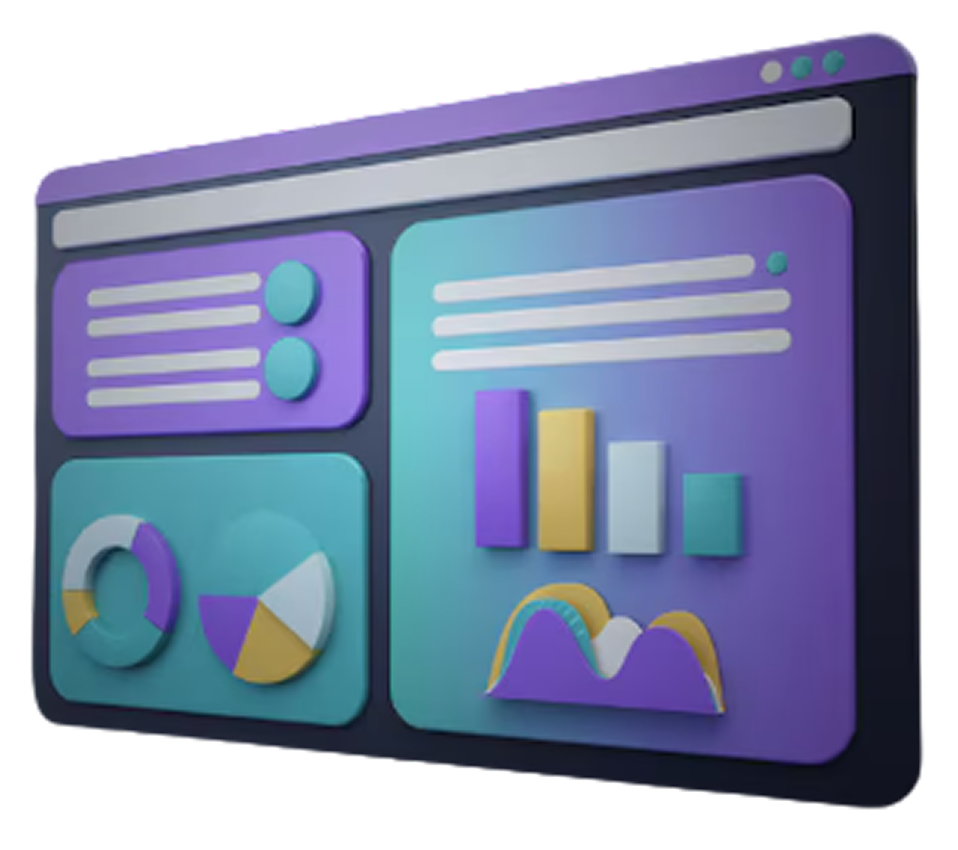
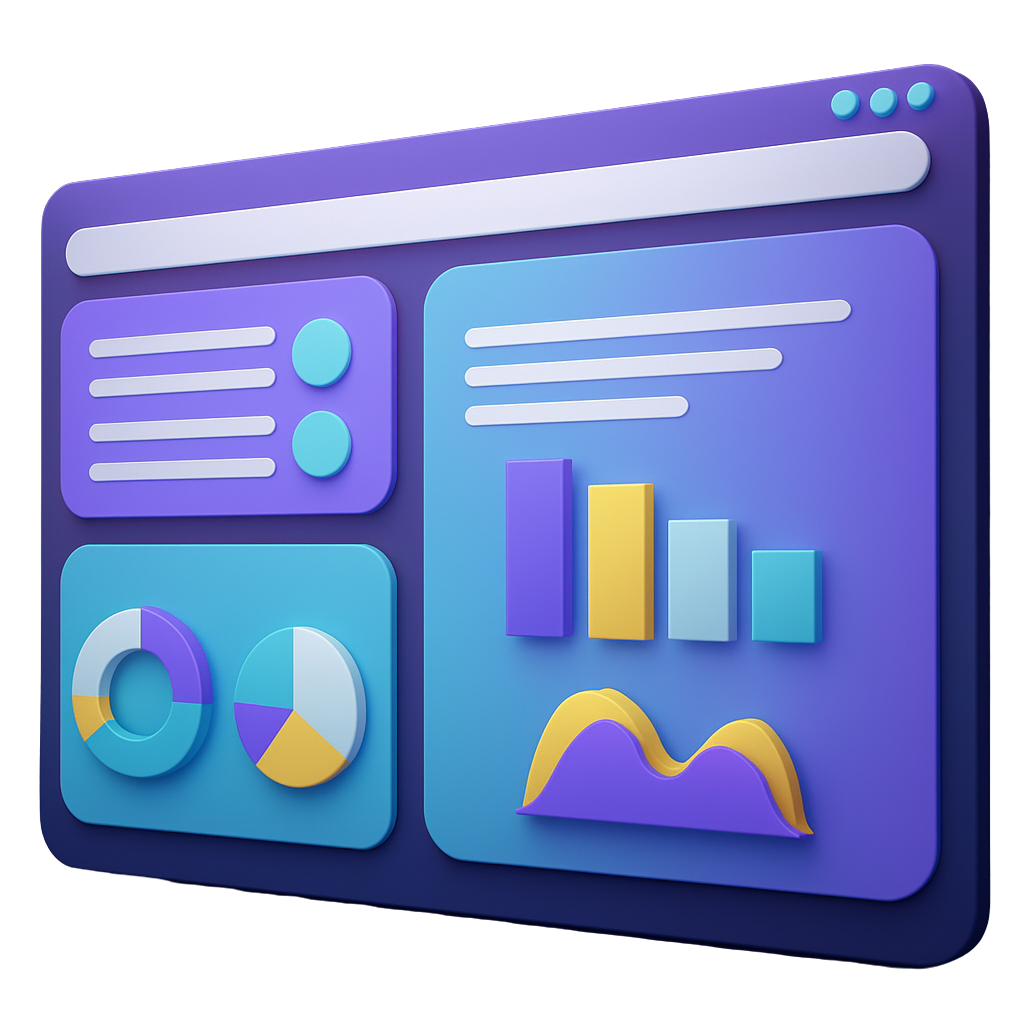
Daily fixes

diff --git a/src/data/sitedata.js b/src/data/sitedata.js
@@ -3,9 +3,8 @@ export default {
     links: [
       { label: "Home", href: "#hero" },
       { label: "Services", href: "#services" },
-      { label: "Review", href: "#reviews" },
-      { label: "About Us", href: "#contact" },
-      { label: "FAQ", href: "#faq" },
+      { label: "Pricing", href: "#pricing" },
+      { label: "Contact Us", href: "#contact" }
     ],
     cta: {
       label: "Book a Call",
@@ -71,6 +70,11 @@ export default {
         desc: "Deliver tailored experiences that adapt to user behavior, boosting engagement and conversions.",
         icon: "/assets/services/landing-page.png",
       },
+      {
+        title: "Lead Generation",
+        desc: "Convert potential customers through targeted, data-driven marketing to boost sales and drive business growth.",
+        icon: "/assets/services/lead.png",
+      }
     ],
   },
   process: {
@@ -245,7 +249,7 @@ export default {
     ],
   },
   pricing: {
-    heading: "The Right Plan for you",
+    heading: "The Right Plan For You",
     sub: "We offer powerful plans to showcase your business and help creative entrepreneurs get discovered with everything you need to succeed.",
     plans: [
       { name: "Starter", price: 999 },
@@ -431,17 +435,13 @@ export default {
         href: "#services",
       },
       {
-        name: "Review",
-        href: "#reviews",
+        name: "Pricing",
+        href: "#pricing",
       },
       {
-        name: "About Us",
+        name: "Contact Us",
         href: "#contact",
-      },
-      {
-        name: "FAQ",
-        href: "#faq",
-      },
+      }
     ],
     address: "2599, Shiv Krupa Association, Kansad, Sachin, Surat 394230 India",
     email: "hello@ingversionsdigital.com",

diff --git a/src/components/Team/Team.jsx b/src/components/Team/Team.jsx
@@ -19,7 +19,7 @@ export default function Team() {
           modules={[Autoplay]}
           className={styles.slider}
           slidesPerView="auto"
-          spaceBetween={18}
+          spaceBetween={22}
           loop={true}
           grabCursor={true}
           speed={2000}
@@ -31,11 +31,11 @@ export default function Team() {
         >
           {members.list.map((m, i) => (
             <SwiperSlide key={i} className={styles.cardSlide}>
-              <article className={styles.card}>
+              <div className={styles.card}>
                 <img className={styles.memberImg} src={m.photo} alt={m.name} />
                 <h4 className={styles.infoName}>{m.name}</h4>
                 <h5 className={styles.infoRole}>{m.role}</h5>
-              </article>
+              </div>
             </SwiperSlide>
           ))}
         </Swiper>

diff --git a/src/components/WorkProcess/WorkProcess.module.css b/src/components/WorkProcess/WorkProcess.module.css
@@ -16,10 +16,9 @@
   width: 100%
 }
 .processGrid {
-  display: -ms-grid;
-  display: grid;
-  -ms-grid-columns: 1fr 22px 1fr 22px 1fr 22px 1fr;
-  grid-template-columns: repeat(4,1fr);
+  display: flex;
+  flex-wrap: wrap;
+  justify-content: center;
   gap: 22px
 }
 .step {
@@ -27,10 +26,10 @@
   border: 1px solid rgba(255,255,255,.08);
   border-radius: 14px;
   overflow: hidden;
-  display: -ms-grid;
-  display: grid;
-  -ms-grid-rows: auto 210px 1fr;
-  grid-template-rows: auto 210px 1fr;
+  display: flex;
+  flex-direction: column;
+  max-width: calc(100% / 4 - 17px);
+  width: 100%;
   -webkit-box-shadow: 0 8px 20px rgba(0,0,0,.25);
   box-shadow: 0 8px 20px rgba(0,0,0,.25)
 }
@@ -65,4 +64,9 @@
   font-size: 16px;
   line-height: 150%;
   padding: 21px 23px 23px
+}
+@media (max-width: 1199.98px) {
+  .step {
+    max-width: 377px
+  }
 }

diff --git a/src/components/Hero/Hero.module.css b/src/components/Hero/Hero.module.css
@@ -2,7 +2,7 @@ section#hero {
   overflow: hidden
 }
 .bannerBg {
-  padding: 161px 0 60px;
+  padding: 161px 0 20px;
   position: relative;
   z-index: 0;
   isolation: isolate
@@ -38,7 +38,7 @@ section#hero {
   font-size: 72px;
   line-height: 88px;
   color: #fff;
-  white-space: nowrap
+  text-transform: capitalize;
 }
 .heroTitlePill {
   display: inline-block;
@@ -199,4 +199,19 @@ section#hero {
   -webkit-transform: translateY(14px);
   -ms-transform: translateY(14px);
   transform: translateY(14px)
+}
+@media (max-width: 1199.98px) {
+  .textHeroArea,
+  .heroVisual {
+    max-width: 50%;
+    width: 100%;
+  }
+  .heroTitle {
+    font-size: 60px;
+    line-height: 76px
+  }
+  .heroTitlePill:after {
+    width: 209.09px;
+    height: 70px;
+  }
 }

diff --git a/src/components/Footer/Footer.module.css b/src/components/Footer/Footer.module.css
@@ -1,7 +1,7 @@
 .siteFooter {
   background: #030303;
   position: relative;
-  border-top: 1px solid #fff
+  border-top: 1px solid #ffffffcc
 }
 .footerTop {
   display: -webkit-box;
@@ -102,7 +102,7 @@
   -ms-flex-align: center;
   align-items: center;
   gap: 15px;
-  color: #fff;
+  color: #ffffffcc;
   text-align: center;
   font-family: Barlow;
   font-weight: 400;
@@ -127,7 +127,7 @@
   -ms-flex-align: center;
   align-items: center;
   gap: 15px;
-  color: #fff;
+  color: #ffffffcc;
   text-decoration: none;
   font-family: Barlow;
   font-weight: 400;
@@ -139,7 +139,7 @@
 }
 .footerBottom {
   text-align: center;
-  color: #fff;
+  color: #ffffffcc;
   padding: 8px 0 50px;
   font-family: Barlow;
   font-weight: 400;

diff --git a/src/components/Services/Services.module.css b/src/components/Services/Services.module.css
@@ -18,12 +18,12 @@
   -webkit-box-pack: center;
   -ms-flex-pack: center;
   justify-content: center;
-  gap: 49px
+  gap: 22px
 }
 .card.service {
-  width: 377px;
-  max-width: 100%;
-  height: 425px;
+  width: 100%;
+  max-width: calc(100% / 3 - 15px);
+  min-height: 425px;
   background: #1a1a1a;
   border: 1px solid rgba(255,255,255,.08);
   border-radius: 16px;
@@ -74,22 +74,6 @@
   max-width: 315px;
   width: 100%
 }
-@media (max-width:1100px) {
-  .service {
-    width: 300px
-  }
-}
-@media (max-width:960px) {
-  .services {
-    gap: 28px
-  }
-  .service {
-    width: 320px
-  }
-}
-@media (max-width:640px) {
-  .service {
-    width: 100%;
-    max-width: 420px
-  }
+@media (max-width: 1199.98px) {
+
 }

diff --git a/src/components/WorkProcess/WorkProcess.jsx b/src/components/WorkProcess/WorkProcess.jsx
@@ -11,7 +11,7 @@ export default function WorkProcess() {
         <p className={styles.processSub}>{data.process.sub}</p>
         <div className={styles.processGrid}>
           {data.process.list.map((p, i) => (
-            <article key={i} className={styles.step}>
+            <div key={i} className={styles.step}>
               <div className={styles.stepHead}>{p.title}</div>
               <div className={styles.stepBody}>
                 <img
@@ -23,7 +23,7 @@ export default function WorkProcess() {
                 />
               </div>
               <div className={styles.stepDesc}>{p.desc}</div>
-            </article>
+            </div>
           ))}
         </div>
       </div>

diff --git a/src/styles/style.css b/src/styles/style.css
@@ -84,7 +84,8 @@ body {
   font-weight: 600;
   font-size: 36px;
   line-height: 56px;
-  text-align: center
+  text-align: center;
+  text-transform: capitalize
 }
 html {
   scroll-behavior: smooth
@@ -213,4 +214,9 @@ input:-webkit-autofill {
 .react-international-phone-country-selector-dropdown__list-item--focused .react-international-phone-country-selector-dropdown__list-item-dial-code,
 .react-international-phone-country-selector-dropdown__list-item--selected .react-international-phone-country-selector-dropdown__list-item-dial-code {
   color: #fff!important
+}
+@media (max-width: 1199.98px) {
+  .container {
+    max-width: 1024px
+  }
 }

diff --git a/src/components/Services/Services.jsx b/src/components/Services/Services.jsx
@@ -9,11 +9,11 @@ export default function Services() {
         <p className={styles.servicesSub}>{data.services.sub}</p>
         <div className={styles.services}>
           {data.services.list.map((s, i) => (
-            <article key={i} className={`${styles.card} ${styles.service}`}>
+            <div key={i} className={`${styles.card} ${styles.service}`}>
               <img className={styles.icon} src={s.icon} alt="" />
               <h4 className={styles.serviceTitle}>{s.title}</h4>
               <p className={styles.serviceDesc}>{s.desc}</p>
-            </article>
+            </div>
           ))}
         </div>
       </div>

diff --git a/src/components/Contact/Contact.module.css b/src/components/Contact/Contact.module.css
@@ -9,7 +9,7 @@
   display: grid;
   -ms-grid-columns: 1.1fr 24px 0.9fr;
   grid-template-columns: 1.1fr 0.9fr;
-  gap: 24px
+  gap: 22px
 }
 .contactCard {
   background: #141414;
@@ -24,7 +24,7 @@
 .rightCol {
   display: -ms-grid;
   display: grid;
-  gap: 24px
+  gap: 22px
 }
 .contactPanelTitle {
   margin: 0 0 24px;
@@ -105,7 +105,8 @@ textarea.cInput {
   -ms-flex-pack: center;
   justify-content: center;
   background: #0a84ff;
-  margin-top: 20px
+  margin-top: 20px;
+  max-width: 100% !important
 }
 .contactNote {
   color: #ffffffcc;

diff --git a/src/components/TrackRecord/TrackRecord.module.css b/src/components/TrackRecord/TrackRecord.module.css
@@ -3,7 +3,7 @@
   display: grid;
   -ms-grid-columns: 1fr 10px 1fr 10px 1fr 10px 1fr;
   grid-template-columns: repeat(4,1fr);
-  gap: 10px;
+  gap: 22px;
   margin-top: 49px
 }
 .kpi {
@@ -42,4 +42,6 @@
   line-height: 150%;
   text-align: center;
   text-transform: uppercase
+}
+@media (max-width: 1199.98px) {
 }

diff --git a/src/components/Reviews/Reviews.module.css b/src/components/Reviews/Reviews.module.css
@@ -147,3 +147,15 @@
 .testimonialSlider::before {
   left: 0
 }
+@media (max-width: 1230.98px) {
+  .quoteLine::after,
+  .quoteLine::before {
+    max-width: 160px;
+  }
+  .tsPrev {
+    left: 10px
+  }
+  .tsNext {
+    right: 10px
+  }
+}
